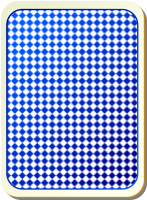
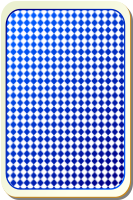
progress

diff --git a/maingame.cpp b/maingame.cpp
@@ -15,7 +15,7 @@ std::vector<std::function<void()>> drawFunctions;
 MainGame::MainGame(sf::RenderWindow &w, Assets &asst):
     window(w), view(window.getDefaultView()), assets(asst),
     spriteBg(assets.bg), spriteBack(assets.back),
-    txtDeck(assets.font, "", 30), txtAvoid(assets.font, "Avoid", 30)
+    txtDeck(assets.font, "", 30), txtAvoid(assets.font, "Avoid", 30), txtHealth(assets.font, "", 50)
 {
     spriteBg.setScale({view.getSize().x / assets.bg.getSize().x, view.getSize().y / assets.bg.getSize().y});  // background image can be smaller
     for (char s: {'d', 'h'})
@@ -30,6 +30,9 @@ MainGame::MainGame(sf::RenderWindow &w, Assets &asst):
     rectAvoid.setPosition(posAvoid);
     txtAvoid.setFillColor(sf::Color::Black);
     center(txtAvoid, rectAvoid);
+    rectDlg.setFillColor(sf::Color::White);
+    rectDlg.setPosition(posDlg);
+    txtHealth.setFillColor(sf::Color::Yellow);
 }
 
 
@@ -71,19 +74,6 @@ void MainGame::run() {
                     // avoid room
                 }
             }
-
-/*
-            while (true) {
-                auto event = waitEvent();
-                if (const auto *e = event.getIf<sf::Event::KeyPressed>()) {
-                    if (e->scancode == sf::Keyboard::Scancode::Escape) {
-                        isDone = true;
-                        mustQuit = true;
-                        break;
-                    }
-                }
-            }
-*/
 
         }
     }
@@ -163,6 +153,9 @@ void MainGame::drawTable() {
     txtDeck.setPosition(posDeck + szCard + sf::Vector2f{-80, 6});
     txtDeck.setString(std::to_string(deck.num_cards()));
     window.draw(txtDeck);
+    txtHealth.setString(std::to_string(health));
+    center(txtHealth, rectHealt);
+    window.draw(txtHealth);
 }
 
 
@@ -179,10 +172,16 @@ void MainGame::matchAspectRatio(sf::View &view, sf::Vector2u winSize) {
 }
 
 
-void MainGame::center(sf::Text &t, const sf::RectangleShape &rect) const {
+void MainGame::center(sf::Text &t, const sf::FloatRect &rect) const {
+    const float off = -0.2 * t.getCharacterSize();  // strings look some pixels too low
     auto r = t.getLocalBounds();
     sf::Vector2f size = r.size + r.position;
-    t.setPosition({rect.getPosition().x + (rect.getSize().x - size.x) / 2, rect.getPosition().y + (rect.getSize().y - size.y) / 2 });
+    t.setPosition({rect.position.x + (rect.size.x - size.x) / 2, rect.position.y + (rect.size.y - size.y) / 2 + off});
+}
+
+
+void MainGame::center(sf::Text &t, const sf::Shape &sh) const {
+    center(t, sh.getGlobalBounds());
 }
 
 

diff --git a/maingame.h b/maingame.h
@@ -26,13 +26,18 @@ protected:
     // geometry information
     const sf::Vector2f posDeck{62, 60}, posRoom[4]{{318, 60}, {484, 60}, {650, 60}, {816, 60}},
         szCard{133, 200}, posAvoid{525, 280}, szAvoid{200, 50};
+    const sf::FloatRect rectHealt{{64, 412}, {128, 128}};
+    // geometry and data for dialog box
+    const sf::Vector2f posDlg{250, 400}, szDlg{500, 340};
+    std::string dlgText, dlgBtn1, dlgBtn2;
+    bool dlgCancel;
     // graphics objects
     sf::RenderWindow &window;
     sf::View view;
     Assets &assets;
     sf::Sprite spriteBg, spriteBack;
-    sf::Text txtDeck, txtAvoid;
-    sf::RectangleShape rectAvoid{szAvoid};
+    sf::Text txtDeck, txtAvoid, txtHealth;
+    sf::RectangleShape rectAvoid{szAvoid}, rectDlg{szDlg};
     //
     sf::Event waitEvent();  // automatically manages resize by calling onResize()
     enum class UserInput { Card, Avoid };
@@ -41,7 +46,8 @@ protected:
     void drawTable();
     void drawAvoid();
     static void matchAspectRatio(sf::View &view, sf::Vector2u winSize);
-    void center(sf::Text&, const sf::RectangleShape&) const;
+    void center(sf::Text&, const sf::FloatRect&) const;
+    void center(sf::Text&, const sf::Shape&) const;
     int currentCards() const;
     // game state
     Deck deck;